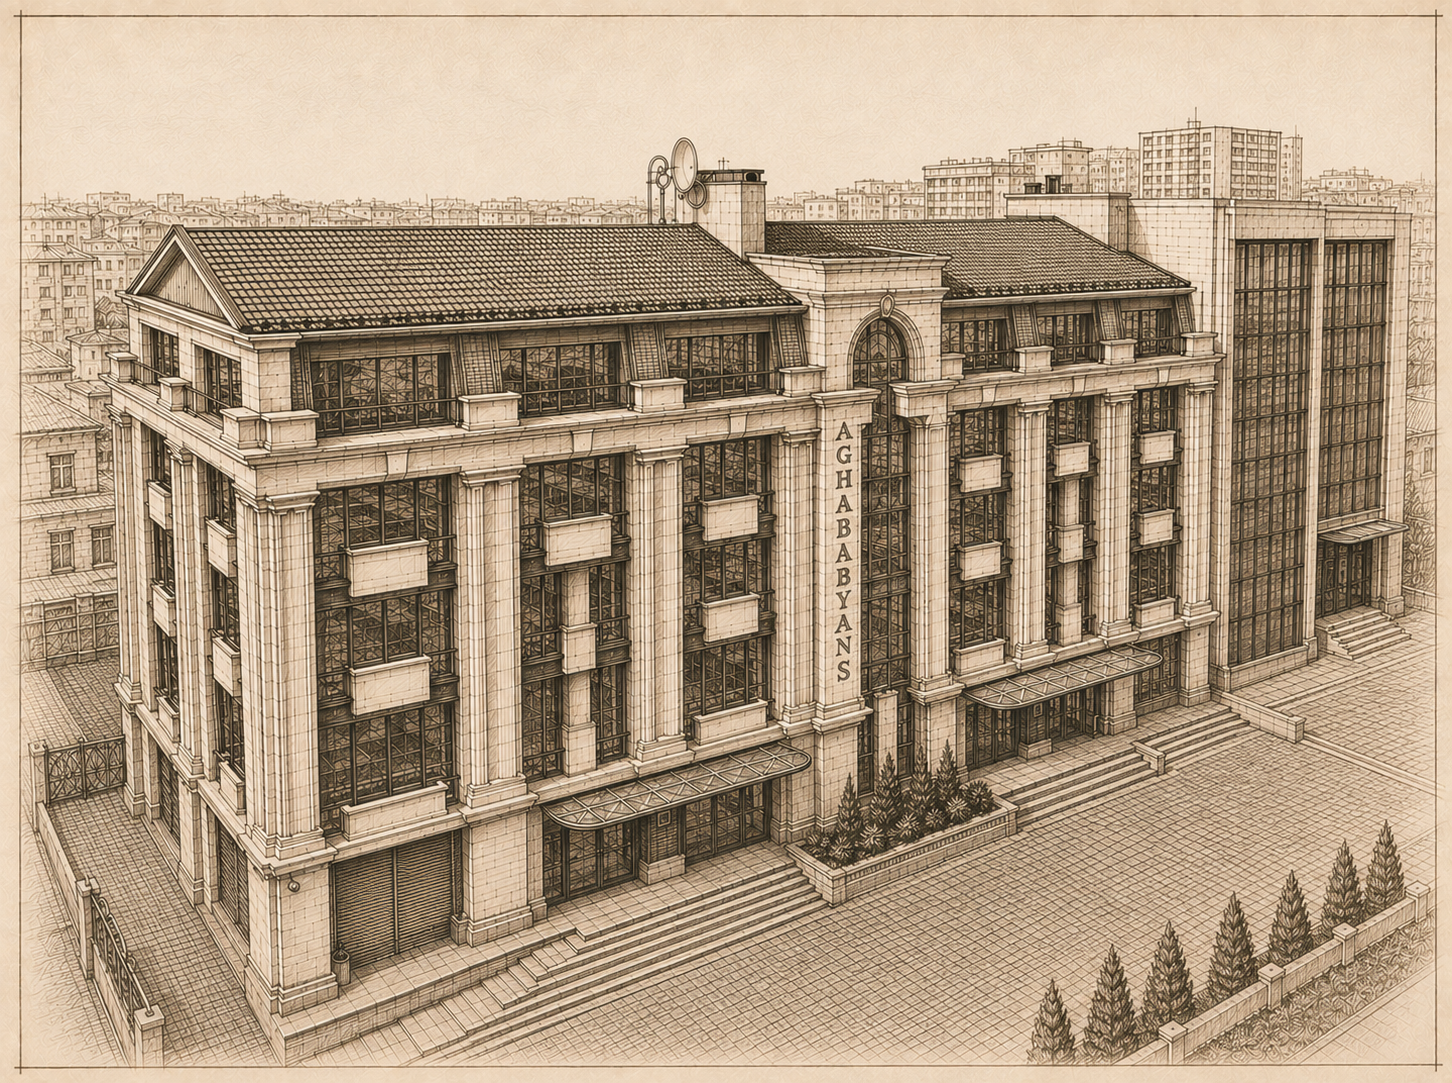
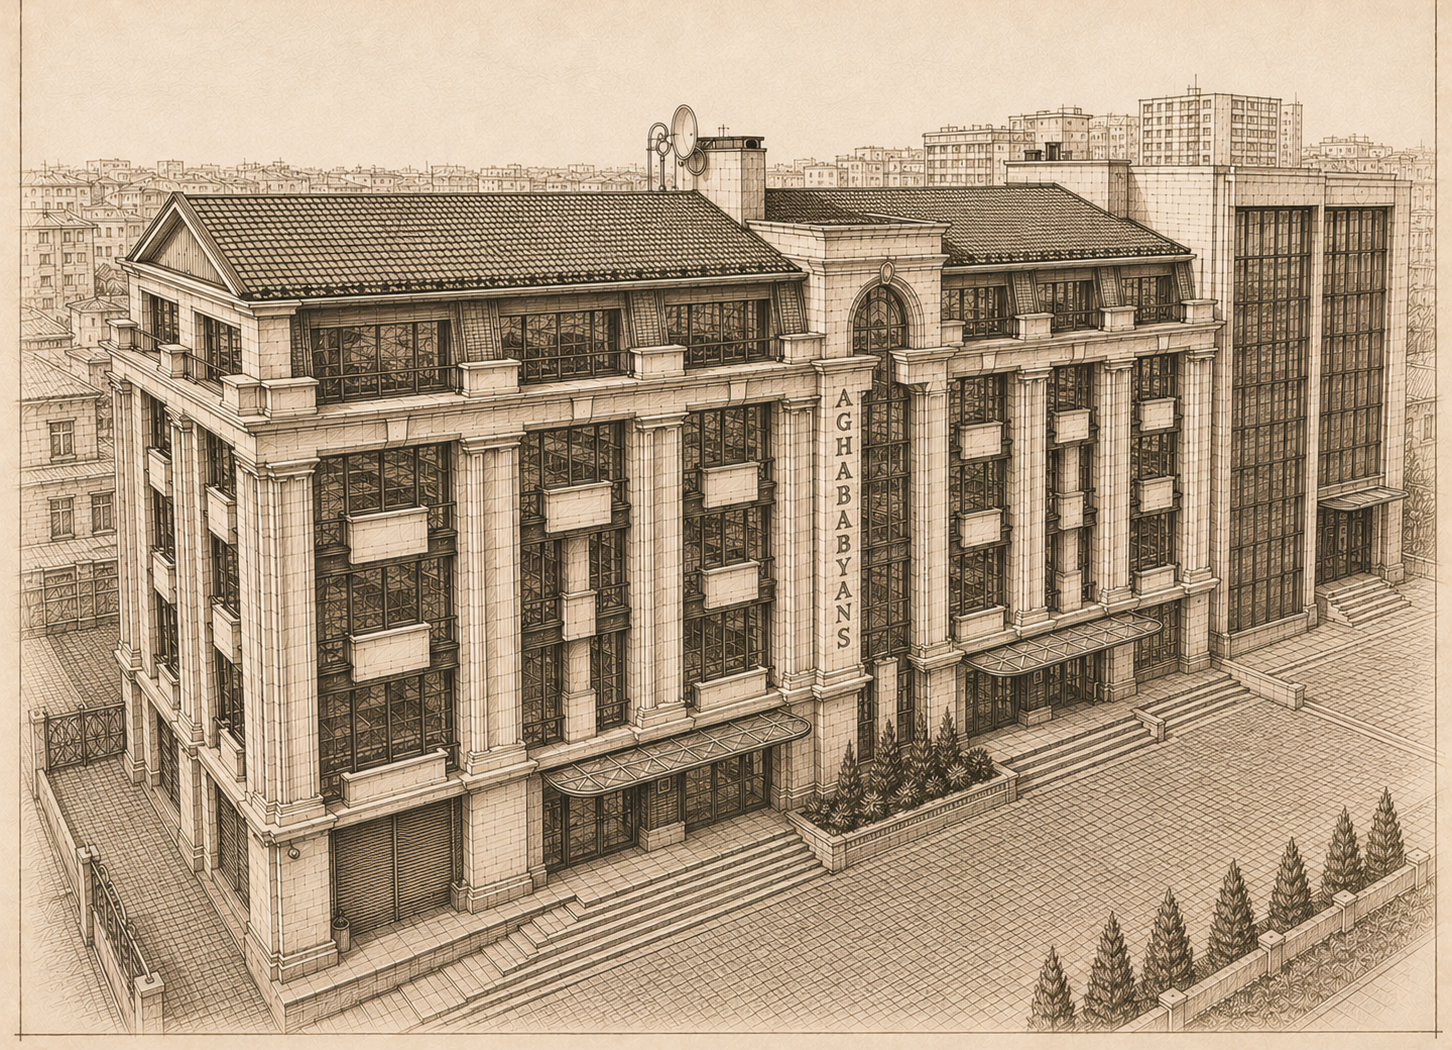
Updated

diff --git a/src/App.jsx b/src/App.jsx
@@ -12,9 +12,17 @@ import leLogo from './assets/pics/LElogo.png';
 import elenAndLyovLogo from './assets/pics/ElenAndLyovLogopng.png';
 import handsImage from './assets/pics/hands.jpg';
 import iranqImage from './assets/pics/iranq.jpg';
+import pictureOne from './assets/pics/picture1.jpg';
+import pictureTwo from './assets/pics/picture2.jpg';
+import pictureThree from './assets/pics/picture3.jpg';
 import musicTrack from './musics/Stephen-Sanchez-Until-I-Found-You.m4a';
 
 const formatNumber = value => String(value).padStart(2, '0');
+const closingPhotos = [
+  { src: pictureOne, alt: 'Էլենի և Լյովայի լուսանկար 1' },
+  { src: pictureTwo, alt: 'Էլենի և Լյովայի լուսանկար 2' },
+  { src: pictureThree, alt: 'Էլենի և Լյովայի լուսանկար 3' },
+];
 
 function Countdown({ className = '' }) {
   const { countdown, wedding } = config;
@@ -363,8 +371,9 @@ export default function App() {
 
         <section className="closing-photo" aria-label={gallery.imageAlt}>
           <div className="closing-photo-frame">
-            <img src={gallery.image} alt={gallery.imageAlt} loading="lazy" />
-            <span>{couple.initials?.partnerOne || 'H'}<i>&amp;</i>{couple.initials?.partnerTwo || 'O'}</span>
+            {closingPhotos.map(photo => (
+              <img src={photo.src} alt={photo.alt} key={photo.src} loading="lazy" />
+            ))}
           </div>
         </section>
 
@@ -420,10 +429,6 @@ export default function App() {
           </section>
         )}
 
-        <footer>
-          <span>{couple.combinedName}</span>
-          <small>{wedding.longDate}</small>
-        </footer>
       </main>
     </div>
   );

diff --git a/src/index.css b/src/index.css
@@ -3218,3 +3218,32 @@ body.opened,
 .timeline-card .text-link {
   margin-top: 0.75rem;
 }
+
+.closing-photo {
+  padding: 1rem 1.25rem 3.25rem !important;
+}
+
+.closing-photo-frame {
+  display: grid !important;
+  grid-template-columns: repeat(3, minmax(0, 1fr));
+  gap: clamp(0.45rem, 2vw, 0.8rem);
+  width: min(100%, 31rem) !important;
+  max-width: 31rem !important;
+  aspect-ratio: auto !important;
+  margin-inline: auto;
+  overflow: visible !important;
+}
+
+.closing-photo-frame img {
+  width: 100% !important;
+  height: auto !important;
+  aspect-ratio: 0.72;
+  border-radius: 18px !important;
+  object-fit: cover;
+  object-position: center;
+  filter: none !important;
+}
+
+.closing-photo-frame > span {
+  display: none !important;
+}
